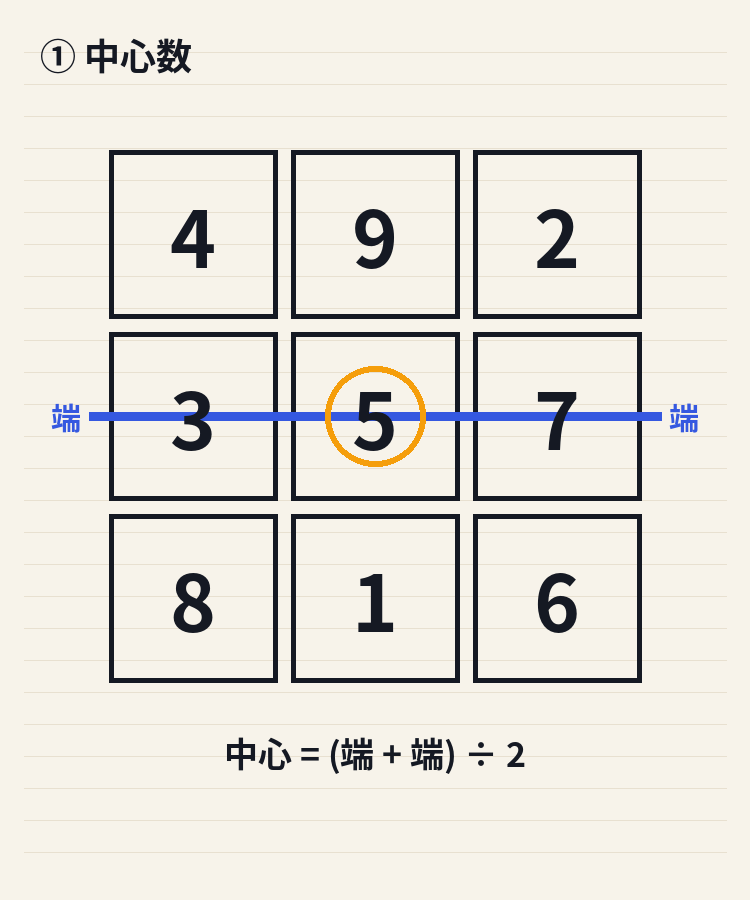
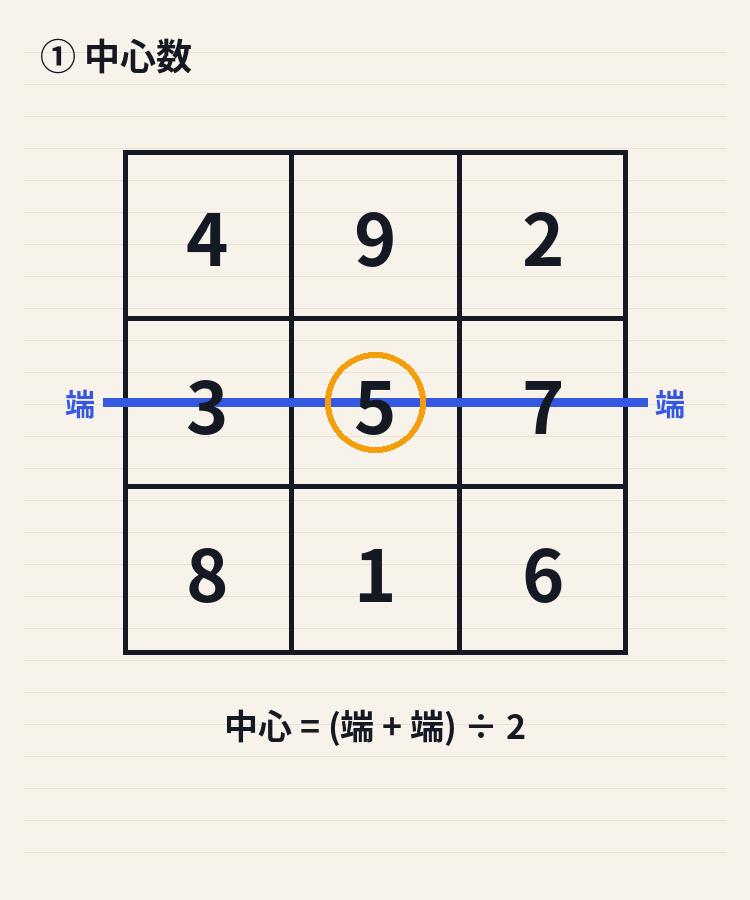
Improve huanfang rules copy + unified tips (build 1793332908304)

diff --git a/huanfang/app.js b/huanfang/app.js
@@ -18,7 +18,7 @@
     sub: "\u770B\u77ED\u89C6\u9891\u5F97 1 \u6B21\u63D0\u793A",
     primary: "\u770B\u89C6\u9891\u6362\u63D0\u793A",
     secondary: "\u7A0D\u540E\u518D\u8BF4",
-    footer: "\u6BCF\u5929\u514D\u8D39 3 \u6B21 \xB7 \u4E0D\u7528\u5F00\u901A\u4F1A\u5458",
+    footer: "\u6BCF\u5929\u514D\u8D39 3 \u6B21 \xB7 \u7528\u5B8C\u53EF\u770B\u89C6\u9891\u518D\u6362",
     playingHint: "\u5927\u6982\u5341\u51E0\u79D2 \xB7 \u770B\u5B8C\u5C31\u9001\u63D0\u793A",
     claim: "\u770B\u5B8C\u9886\u53D6"
   };
@@ -31,7 +31,7 @@
     sub: "\u770B\u77ED\u89C6\u9891\u89E3\u9501 10 \u9053\u8FDB\u9636\u9898",
     primary: "\u770B\u89C6\u9891\u89E3\u9501 10 \u9898",
     secondary: "\u7A0D\u540E\u518D\u8BF4",
-    footer: "\u4E0D\u7528\u5F00\u901A\u4F1A\u5458 \xB7 \u8DF3\u8FC7\u4E0D\u89E3\u9501",
+    footer: "\u8DF3\u8FC7\u4E0D\u89E3\u9501 \xB7 \u770B\u5B8C\u624D\u5F00\u9898",
     playingHint: "\u5927\u6982\u5341\u51E0\u79D2 \xB7 \u770B\u5B8C\u89E3\u9501 10 \u9053",
     claim: "\u770B\u5B8C\u89E3\u9501"
   };
@@ -602,7 +602,7 @@
   }
 
   // src/main.ts
-  var BUILD = true ? "1793332012427" : String(Date.now());
+  var BUILD = true ? "1793332908304" : String(Date.now());
   var app = document.getElementById("app");
   var toastEl = document.getElementById("toast");
   var state = {
@@ -1162,7 +1162,7 @@
       ${freeAllDone || unlockedThrough > FREE_BANK || canUnlockMore ? `<button class="btn btn-ghost btn-block btn-advanced" id="btn-advanced" type="button">${icon("levels")} \u8FDB\u9636\u9898${unlockedThrough >= QUESTION_COUNT ? " \xB7 \u5DF2\u5168\u5F00" : unlockedThrough > FREE_BANK ? ` \xB7 \u81F3 Q${unlockedThrough}` : " \xB7 \u770B\u89C6\u9891\u89E3\u9501"}</button>` : ""}
     </div>
     <div class="home-footer">
-      <p class="pledge">\u6CA1\u6709\u63D2\u5C4F\u6253\u6270 \xB7 \u6CA1\u6709\u4F1A\u5458 \xB7 \u524D ${FREE_BANK} \u9898\u968F\u4FBF\u8FDB</p>
+      <p class="pledge">\u524D ${FREE_BANK} \u9898\u514D\u8D39 \xB7 \u968F\u4FBF\u8FDB \xB7 \u5171 ${QUESTION_COUNT} \u9053</p>
       <div class="home-footer-links">
         <button class="btn btn-ghost btn-sm" id="btn-rules" type="button">${icon("rules")} \u89C4\u5219</button>
         <button class="btn btn-ghost btn-sm" id="btn-tips" type="button">${icon("hint")} \u6280\u5DE7</button>
@@ -1424,6 +1424,8 @@
     };
   }
   function renderRules() {
+    const loShu = [4, 9, 2, 3, 5, 7, 8, 1, 6];
+    const miniCells = loShu.map((n) => `<span class="rules-mini-cell">${n}</span>`).join("");
     app.innerHTML = `
     <div class="topbar">
       <button class="btn btn-ghost btn-sm" id="btn-back" type="button">\u8FD4\u56DE</button>
@@ -1431,30 +1433,55 @@
       <div style="width:48px"></div>
     </div>
     <div class="rules-card">
-      <img class="rules-hero" src="assets/ui/screens/rules_simple.png?v=${BUILD}" alt="\u89C4\u5219\u793A\u610F" loading="lazy" decoding="async" />
-      <h2>\u7EC3\u4E60\u9898\u5E93\u73A9\u6CD5</h2>
-      <p>\u5728 <strong>3\xD73</strong> \u5BAB\u683C\u4E2D\u586B\u5165\u672C\u9898\u7ED9\u5B9A\u6570\u5B57<strong>\u5404\u4E00\u6B21</strong>\uFF0C\u4F7F<strong>\u6BCF\u4E00\u884C\u3001\u6BCF\u4E00\u5217\u3001\u4E24\u6761\u5BF9\u89D2\u7EBF</strong>\u7684\u6570\u5B57\u4E4B\u548C\u90FD<strong>\u76F8\u540C</strong>\u3002\u5BF9\u89D2\u7EBF\u662F\u5FC5\u9009\u7EA6\u675F\uFF0C\u4E0D\u662F\u53EF\u9009\u73A9\u6CD5\u3002</p>
-      <h3>\u600E\u4E48\u586B</h3>
-      <ul>
-        <li>\u70B9\u7A7A\u683C\u540E\u81EA\u884C\u8F93\u5165\u6570\u5B57\uFF1B\u4E0D\u63D0\u4F9B\u5907\u9009\u6570\u5B57\u6761\u3001\u4E0D\u5C55\u793A\u53EF\u9009\u6570</li>
-        <li>\u5DF2\u77E5\u6B8B\u5C40\u683C\u4E0D\u53EF\u6539\uFF1B\u64A4\u9500\u53EA\u56DE\u9000\u4F60\u586B\u5165\u7684\u6570\u5B57</li>
-      </ul>
-      <h3>\u7EBF\u548C\u9762\u677F</h3>
-      <ul>
-        <li>\u5C40\u5185\u5B9E\u65F6\u663E\u793A\u6BCF\u6761\u7EBF<strong>\u5F53\u524D\u548C</strong>\uFF08\u4E0D\u663E\u793A\u300C\u5E7B\u548C N\u300D\u76EE\u6807\u6570\uFF09</li>
-        <li>\u586B\u6EE1\u4E14\u548C\u5176\u4ED6\u6B63\u786E\u7EBF\u4E00\u81F4\uFF1A\u7EFF \u2713\uFF1B\u586B\u6EE1\u4F46\u5BF9\u4E0D\u4E0A\uFF1A\u7425\u73C0 !</li>
-      </ul>
-      <h3>\u63D0\u793A</h3>
-      <ul>
-        <li>\u70B9\u540D\u62DB\u5F0F\u3001\u5148\u7ED9\u7B97\u5F0F\uFF0C\u540C\u4E00\u76D8\u9762\u518D\u70B9\u624D\u7ED9\u6570\u5B57\uFF08\u6BCF\u65E5\u514D\u8D39 ${HINT_DAILY_LIMIT} \u6B21\uFF1B\u7528\u5C3D\u53EF\u770B\u77ED\u89C6\u9891\u518D\u6362 1 \u6B21\uFF09</li>
-        <li>\u4E0D\u7ED9\u5019\u9009\u6570\u6E05\u5355\u3001\u4E0D\u7ED9\u5168\u76D8\u7B54\u6848</li>
-      </ul>
-      <h3>\u9898\u5E93\u4E0E\u901A\u5173</h3>
-      <ul>
-        <li>\u5171 <b>${QUESTION_COUNT}</b> \u9053\u4E09\u9636\u9898\uFF1B\u524D <b>${FREE_BANK}</b> \u9898\u514D\u8D39\u5168\u5F00\uFF0C\u8FDB\u9636\u533A\u6BCF\u6B21\u770B\u77ED\u89C6\u9891\u89E3\u9501 ${ADVANCED.unlockPerReward} \u9053</li>
-        <li>\u4E0D\u9501\u5173\uFF1A\u514D\u8D39\u533A\u9898\u53F7\u968F\u4FBF\u8DF3\uFF1B\u8FDB\u9636\u672A\u89E3\u9501\u9898\u70B9\u8FDB\u53EF\u770B\u89C6\u9891\u89E3\u9501</li>
-      </ul>
-      <div class="note">\u6CA1\u6709\u63D2\u5C4F\u6253\u6270 \xB7 \u6CA1\u6709\u4F1A\u5458 \xB7 \u524D ${FREE_BANK} \u9898\u968F\u4FBF\u8DF3\u3002\u60F3\u5B66\u62DB\u5F0F\u8BF7\u770B\u300C\u6280\u5DE7\u300D\u9875\u3002</div>
+      <h2>\u600E\u4E48\u73A9</h2>
+
+      <section class="rules-block">
+        <h3>\u76EE\u6807</h3>
+        <p>\u5728 <strong>3\xD73</strong> \u4E2D\u628A\u672C\u9898\u7ED9\u5B9A\u6570\u5B57<strong>\u5404\u7528\u4E00\u6B21</strong>\uFF0C\u4F7F\u6A2A 3\u3001\u7AD6 3\u3001\u659C 2 \u5171 <strong>8 \u6761\u7EBF</strong>\u4E4B\u548C<strong>\u90FD\u76F8\u540C</strong>\u3002\u5BF9\u89D2\u7EBF\u4E5F\u8981\u7B97\uFF0C\u4E0D\u662F\u53EF\u9009\u3002</p>
+        <p class="rules-callout">\u5404\u7EBF\u548C\u8981\u76F8\u7B49\uFF1B\u672C\u9898\u548C\u6570\u4EE5\u901A\u5173\u4E3A\u51C6\uFF0C\u4E0D\u4E00\u5B9A\u662F 15\u3002</p>
+      </section>
+
+      <section class="rules-block">
+        <h3>\u600E\u4E48\u586B</h3>
+        <ul>
+          <li>\u70B9\u7A7A\u683C \u2192 \u7528\u952E\u76D8\u8F93\u5165\u672C\u9898\u91CC\u7684\u6570</li>
+          <li>\u6BCF\u4E2A\u6570\u53EA\u7528\u4E00\u6B21\uFF1B\u5377\u9762\u5DF2\u77E5\u683C\u4E0D\u80FD\u6539</li>
+          <li>\u64A4\u9500\u53EA\u56DE\u9000\u4F60\u81EA\u5DF1\u586B\u8FC7\u7684\u6570</li>
+        </ul>
+      </section>
+
+      <section class="rules-block">
+        <h3>\u4E00\u5171\u67E5 8 \u6761\u7EBF</h3>
+        <div class="rules-lines-demo">
+          <div class="rules-mini-grid" aria-hidden="true">${miniCells}</div>
+          <ul class="rules-lines-legend">
+            <li><span class="dot dot-row"></span>\u6A2A \xD73</li>
+            <li><span class="dot dot-col"></span>\u7AD6 \xD73</li>
+            <li><span class="dot dot-diag"></span>\u659C \xD72\uFF08\u2198 \u2199\uFF09</li>
+          </ul>
+        </div>
+        <p class="rules-caption">\u4E0A\u56FE\u662F\u6D1B\u4E66\u4E00\u4F8B\u3002\u586B\u7684\u65F6\u5019\uFF0C\u7EBF\u548C\u9762\u677F\u4F1A\u9A6C\u4E0A\u544A\u8BC9\u4F60\uFF1A\u5BF9\u9F50 \u2713 / \u5BF9\u4E0D\u4E0A !</p>
+      </section>
+
+      <section class="rules-block">
+        <h3>\u63D0\u793A</h3>
+        <ul>
+          <li>\u70B9\u540D\u62DB\u5F0F\u3001\u5148\u7ED9\u7B97\u5F0F\uFF1B\u540C\u4E00\u76D8\u518D\u70B9\u624D\u7ED9\u6570\u5B57</li>
+          <li>\u6BCF\u5929\u514D\u8D39 ${HINT_DAILY_LIMIT} \u6B21\uFF1B\u7528\u5B8C\u53EF\u770B\u77ED\u89C6\u9891\u518D\u6362 1 \u6B21</li>
+          <li>\u4E0D\u7ED9\u5019\u9009\u6570\u6E05\u5355\u3001\u4E0D\u7ED9\u5168\u76D8\u7B54\u6848</li>
+        </ul>
+      </section>
+
+      <section class="rules-block">
+        <h3>\u9898\u5E93</h3>
+        <ul>
+          <li>\u5171 <b>${QUESTION_COUNT}</b> \u9053\u4E09\u9636\u9898\uFF1B\u524D <b>${FREE_BANK}</b> \u9898\u514D\u8D39\u5168\u5F00</li>
+          <li>\u8FDB\u9636\u533A\u6BCF\u6B21\u770B\u77ED\u89C6\u9891\u89E3\u9501 ${ADVANCED.unlockPerReward} \u9053</li>
+          <li>\u514D\u8D39\u533A\u9898\u53F7\u968F\u4FBF\u8DF3\uFF1B\u8FDB\u9636\u672A\u89E3\u9501\u9898\u70B9\u8FDB\u53EF\u770B\u89C6\u9891\u89E3\u9501</li>
+        </ul>
+      </section>
+
+      <div class="note">\u524D ${FREE_BANK} \u9898\u968F\u4FBF\u8DF3\u3002\u60F3\u5B66\u62DB\u5F0F\u8BF7\u770B\u300C\u6280\u5DE7\u300D\u9875\u3002</div>
       <div class="rules-footer-actions">
         <button class="btn btn-ghost btn-block" id="btn-to-tips" type="button">${icon("hint")} \u4E09\u9636\u5DE7\u586B\u6280\u5DE7</button>
         <button class="btn btn-primary btn-block" id="btn-play" type="button">${icon("play")} \u5F00\u59CB\u7EC3\u4E60</button>
@@ -1472,37 +1499,44 @@
     {
       file: "tip_01_center.png",
       title: "\u4E2D\u5FC3\u6570",
-      body: "\u4E2D\u5FC3 = \u8FC7\u4E2D\u5FC3\u90A3\u6761\u7EBF\u4E24\u7AEF\u4E24\u4E2A\u6570\u7684\u548C \xF7 2\uFF1B\u4E5F\u7B49\u4E8E\u5168\u90E8\u4E5D\u4E2A\u6570\u7684\u548C \xF7 9\u3002"
+      body: "\u8FC7\u4E2D\u5FC3\u90A3\u6761\u7EBF\uFF1A\u4E24\u7AEF\u4E24\u6570\u76F8\u52A0 \xF7 2 = \u4E2D\u5FC3\u3002\u4E2D\u5FC3\u4E5F\u7B49\u4E8E\u4E5D\u6570\u603B\u548C \xF7 9\u3002",
+      motto: "\u53E3\u8BC0\uFF1A\u4E24\u7AEF\u76F8\u52A0\uFF0C\u5BF9\u534A\u5206\uFF0C\u5C31\u662F\u4E2D\u5FC3\u3002"
     },
     {
       file: "tip_02_linesum.png",
-      title: "\u7EBF\u548C\u516C\u5F0F",
-      body: "\u6BCF\u6761\u7EBF\u7684\u548C = \u4E5D\u4E2A\u6570\u7684\u603B\u548C \xF7 3 = \u4E2D\u5FC3 \xD7 3\u3002"
+      title: "\u7EBF\u548C",
+      body: "\u6BCF\u6761\u7EBF\u548C = \u4E5D\u6570\u603B\u548C \xF7 3 = \u4E2D\u5FC3 \xD7 3\u3002\u968F\u9898\u53D8\u5316\uFF0C\u4E0D\u662F\u6C38\u8FDC 15\u3002",
+      motto: "\u53E3\u8BC0\uFF1A\u603B\u548C\u9664\u4EE5 3\uFF0C\u5C31\u662F\u8FD9\u4E00\u9898\u7684\u7EBF\u548C\u3002"
     },
     {
       file: "tip_03_pairs.png",
-      title: "\u914D\u5BF9\u6CD5",
-      body: "\u8FC7\u4E2D\u5FC3\u7684\u7EBF\uFF0C\u4E24\u7AEF\u4E24\u4E2A\u6570\u914D\u6210\u4E00\u5BF9\uFF0C\u6BCF\u5BF9\u7684\u548C\u90FD\u76F8\u7B49\u3002\u4F8B\u5982 1\u20139 \u65F6\u5C31\u662F 1+9=2+8=3+7=4+6\u3002"
+      title: "\u914D\u5BF9",
+      body: "\u8FC7\u4E2D\u5FC3\u7684\u7EBF\uFF0C\u4E24\u7AEF\u914D\u6210\u5BF9\uFF1B\u6BCF\u5BF9\u7684\u548C\u90FD\u4E00\u6837\u3002",
+      motto: "\u53E3\u8BC0\uFF1A\u5BF9\u7740\u4E2D\u5FC3\u7684\u4E24\u7AEF\uFF0C\u914D\u5BF9\u548C\u76F8\u7B49\u3002"
     },
     {
       file: "tip_04_common.png",
       title: "\u516C\u5171\u683C",
-      body: "\uFF08T \u578B\u3001L \u578B\u3001V \u578B\uFF09\u4E24\u6761\u7EBF\u6709\u4E00\u4E2A\u5171\u7528\u683C\u65F6\uFF0C\u53BB\u6389\u5171\u7528\u683C\uFF0C\u5269\u4E0B\u4E24\u4E2A\u6570\u7684\u548C\u76F8\u7B49\uFF0C\u4E5F\u5C31\u662F a+b=c+d\u3002"
+      body: "\u4E24\u6761\u7EBF\u5171\u7528\u4E00\u683C\u65F6\uFF1A\u53BB\u6389\u5171\u7528\u683C\uFF0C\u5269\u4E0B\u4E24\u8FB9\u4E24\u6570\u548C\u76F8\u7B49\uFF08a+b=c+d\uFF09\u3002",
+      motto: "\u53E3\u8BC0\uFF1A\u516C\u5171\u683C\u4E00\u53BB\u6389\uFF0C\u4E24\u8FB9\u4E24\u6570\u548C\u4E00\u6837\u3002"
     },
     {
       file: "tip_05_bow.png",
-      title: "\u5F13\u7BAD\u578B",
-      body: "\u89D2\u4E0A\u7684\u6570 \xD7 2 = \u5BF9\u7740\u5B83\u7684\u4E24\u4E2A\u8FB9\u4E2D\u683C\u4E4B\u548C\uFF0C\u4E5F\u5C31\u662F 2a=b+c\u3002"
+      title: "\u5F13\u7BAD",
+      body: "\u89D2\u4E0A\u7684\u6570 \xD7 2 = \u5BF9\u7740\u5B83\u7684\u4E24\u4E2A\u8FB9\u4E2D\u683C\u4E4B\u548C\uFF082a=b+c\uFF09\u3002",
+      motto: "\u53E3\u8BC0\uFF1A\u89D2\u7FFB\u4E00\u500D\uFF0C\u7B49\u4E8E\u4E24\u8FB9\u4E2D\u3002"
     },
     {
       file: "tip_06_luobo.png",
-      title: "\u841D\u535C\u6CD5\uFF08\u7F57\u4F2F\u6CD5\uFF09",
-      body: "\u4ECE\u300C\u4E0A\u8FB9\u6B63\u4E2D\u300D\u843D\u4E0B\u6700\u5C0F\u7684\u6570\uFF0C\u7136\u540E\u6BCF\u6B21\u5F80\u53F3\u4E0A\u8D70\u4E00\u683C\u653E\u4E0B\u4E00\u4E2A\u6570\u3002\u8D70\u51FA\u4E0A\u8FB9\u5C31\u4ECE\u4E0B\u8FB9\u8FDB\u6765\uFF0C\u8D70\u51FA\u53F3\u8FB9\u5C31\u4ECE\u5DE6\u8FB9\u8FDB\u6765\uFF1B\u82E5\u683C\u5B50\u5DF2\u88AB\u5360\uFF0C\u5C31\u6539\u5728\u4E0A\u4E00\u4E2A\u6570\u7684\u6B63\u4E0B\u65B9\u843D\u5B50\u3002\u4E00\u6B21\u53EA\u8D70\u4E00\u6B65\u3002"
+      title: "\u841D\u535C\u6CD5",
+      body: "\u4ECE\u4E0A\u8FB9\u6B63\u4E2D\u653E\u6700\u5C0F\u6570\uFF1B\u6BCF\u6B21\u5F80\u53F3\u4E0A\u4E00\u683C\u3002\u51FA\u754C\u5C31\u4ECE\u5BF9\u9762\u6298\u56DE\uFF1B\u649E\u5230\u5DF2\u6709\u6570\uFF0C\u6539\u5411\u4E0B\u8D70\u3002",
+      motto: "\u53E3\u8BC0\uFF1A\u4E0A\u4E2D\u8D77\u624B\uFF0C\u53F3\u4E0A\u8D70\uFF1B\u51FA\u754C\u6298\u56DE\uFF0C\u649E\u683C\u5411\u4E0B\u3002"
     },
     {
       file: "tip_07_yanghui.png",
-      title: "\u6768\u8F89\u6CD5\uFF08\u9636\u68AF\u6CD5\uFF09",
-      body: "\u8BF4\u767D\u4E86\u5C31\u662F\u628A\u4E5D\u4E2A\u8FDE\u7EED\u6570\uFF08\u7B49\u5DEE\u6570\u5217\uFF09\u5148\u659C\u7740\u6392\u597D\uFF0C\u518D\u628A\u4F38\u51FA\u683C\u5916\u7684\u4E0A\u4E0B\u5DE6\u53F3\u5BF9\u8C03\u8FDB\u7A7A\u683C\uFF0C\u5C31\u5F97\u5230\u5E7B\u65B9\u3002\u4E2D\u5FC3\u4E00\u5B9A\u662F\u6574\u7EC4\u7684\u4E2D\u9879\u3002"
+      title: "\u6768\u8F89\u6CD5",
+      body: "\u4E5D\u4E2A\u8FDE\u7EED\u6570\u5148\u659C\u7740\u6392\uFF1B\u4F38\u51FA\u683C\u5916\u7684\uFF0C\u4E0A\u4E0B\u5DE6\u53F3\u5BF9\u8C03\u8FDB\u6765\u3002\u4E2D\u5FC3\u4E00\u5B9A\u662F\u4E2D\u9879\u3002",
+      motto: "\u53E3\u8BC0\uFF1A\u659C\u6392\u5BF9\u8C03\uFF0C\u4E2D\u9879\u5750\u6B63\u4E2D\u3002"
     }
   ];
   function tipIllustSlot(file, title) {

diff --git a/huanfang/styles.css b/huanfang/styles.css
@@ -812,23 +812,115 @@ button:disabled { cursor: not-allowed; opacity: 0.45; }
 .rules-card {
   background: var(--card);
   border-radius: var(--radius-card);
-  padding: 20px;
+  padding: 20px 18px 18px;
   box-shadow: var(--shadow);
   border: 1px solid var(--border);
-  line-height: 1.7;
-  font-size: 14px;
+  line-height: 1.65;
+  font-size: 15px;
 }
-.rules-card h2 { margin: 0 0 12px; font-size: 20px; }
-.rules-card h3 { margin: 18px 0 8px; font-size: 15px; color: var(--primary); }
-.rules-card ul { padding-left: 1.2em; margin: 0; }
-.rules-card p { margin: 0 0 10px; color: #495057; }
+.rules-card h2 {
+  margin: 0 0 14px;
+  font-size: 22px;
+  font-weight: 700;
+  color: var(--text);
+  letter-spacing: 0.01em;
+}
+.rules-card h3 {
+  margin: 0 0 8px;
+  font-size: 16px;
+  font-weight: 700;
+  color: var(--primary);
+}
+.rules-card ul {
+  padding-left: 1.15em;
+  margin: 0;
+  color: #495057;
+}
+.rules-card ul li { margin: 0 0 6px; }
+.rules-card ul li:last-child { margin-bottom: 0; }
+.rules-card p { margin: 0 0 8px; color: #495057; }
 .rules-card .note {
-  margin-top: 16px;
+  margin-top: 14px;
   padding: 10px 12px;
   background: var(--primary-mist);
   border-radius: 12px;
   font-size: 13px;
   color: var(--muted);
+  line-height: 1.55;
+}
+
+.rules-block {
+  margin: 0 0 14px;
+  padding: 14px 14px 12px;
+  background: var(--primary-mist);
+  border: 1px solid var(--border);
+  border-radius: 16px;
+}
+.rules-block:last-of-type { margin-bottom: 0; }
+.rules-callout {
+  margin: 10px 0 0 !important;
+  padding: 8px 12px;
+  background: var(--amber-soft);
+  border-left: 3px solid var(--amber);
+  border-radius: 10px;
+  color: var(--text) !important;
+  font-size: 14px;
+  font-weight: 600;
+  line-height: 1.5;
+}
+.rules-lines-demo {
+  display: flex;
+  align-items: center;
+  gap: 16px;
+  margin: 4px 0 10px;
+  flex-wrap: wrap;
+}
+.rules-mini-grid {
+  display: grid;
+  grid-template-columns: repeat(3, 36px);
+  grid-template-rows: repeat(3, 36px);
+  gap: 4px;
+  flex-shrink: 0;
+}
+.rules-mini-cell {
+  display: flex;
+  align-items: center;
+  justify-content: center;
+  background: var(--card);
+  border: 2px solid var(--text);
+  border-radius: 10px;
+  font-weight: 700;
+  font-size: 16px;
+  color: var(--text);
+  font-variant-numeric: tabular-nums;
+}
+.rules-lines-legend {
+  list-style: none !important;
+  padding: 0 !important;
+  margin: 0 !important;
+  display: flex;
+  flex-direction: column;
+  gap: 8px;
+  font-size: 14px;
+  font-weight: 600;
+  color: var(--text);
+}
+.rules-lines-legend .dot {
+  display: inline-block;
+  width: 10px;
+  height: 10px;
+  border-radius: 50%;
+  margin-right: 8px;
+  vertical-align: middle;
+}
+.dot-row { background: var(--primary); }
+.dot-col { background: var(--amber); }
+.dot-diag { background: var(--ok); }
+.rules-caption {
+  margin: 0 !important;
+  font-size: 13px;
+  color: var(--muted) !important;
+  line-height: 1.5;
 }
 
 .tip-list {
@@ -1086,12 +1178,5 @@ button:disabled { cursor: not-allowed; opacity: 0.45; }
   color: var(--muted);
 }
 
-.rules-hero {
-  display: block;
-  width: 100%;
-  max-width: 420px;
-  margin: 0 auto 16px;
-  border-radius: var(--radius-card);
-  box-shadow: var(--shadow);
-  background: var(--card);
-}
+/* rules_simple.png 已停用；保留空规则以免旧缓存 CSS 报错 */
+.rules-hero { display: none; }

diff --git a/huanfang/index.html b/huanfang/index.html
@@ -8,12 +8,12 @@
   <title>幻方</title>
   <link rel="icon" href="favicon.svg" type="image/svg+xml" />
   <link rel="icon" href="favicon.ico" sizes="any" />
-  <link rel="stylesheet" href="styles.css?v=1793332012427" />
+  <link rel="stylesheet" href="styles.css?v=1793332908304" />
 </head>
 <body>
   <div id="app"></div>
   <div id="toast" class="toast" role="status" aria-live="polite"></div>
-  <script>window.__BUILD__ = "1793332012427";</script>
-  <script src="app.js?v=1793332012427"></script>
+  <script>window.__BUILD__ = "1793332908304";</script>
+  <script src="app.js?v=1793332908304"></script>
 </body>
 </html>
